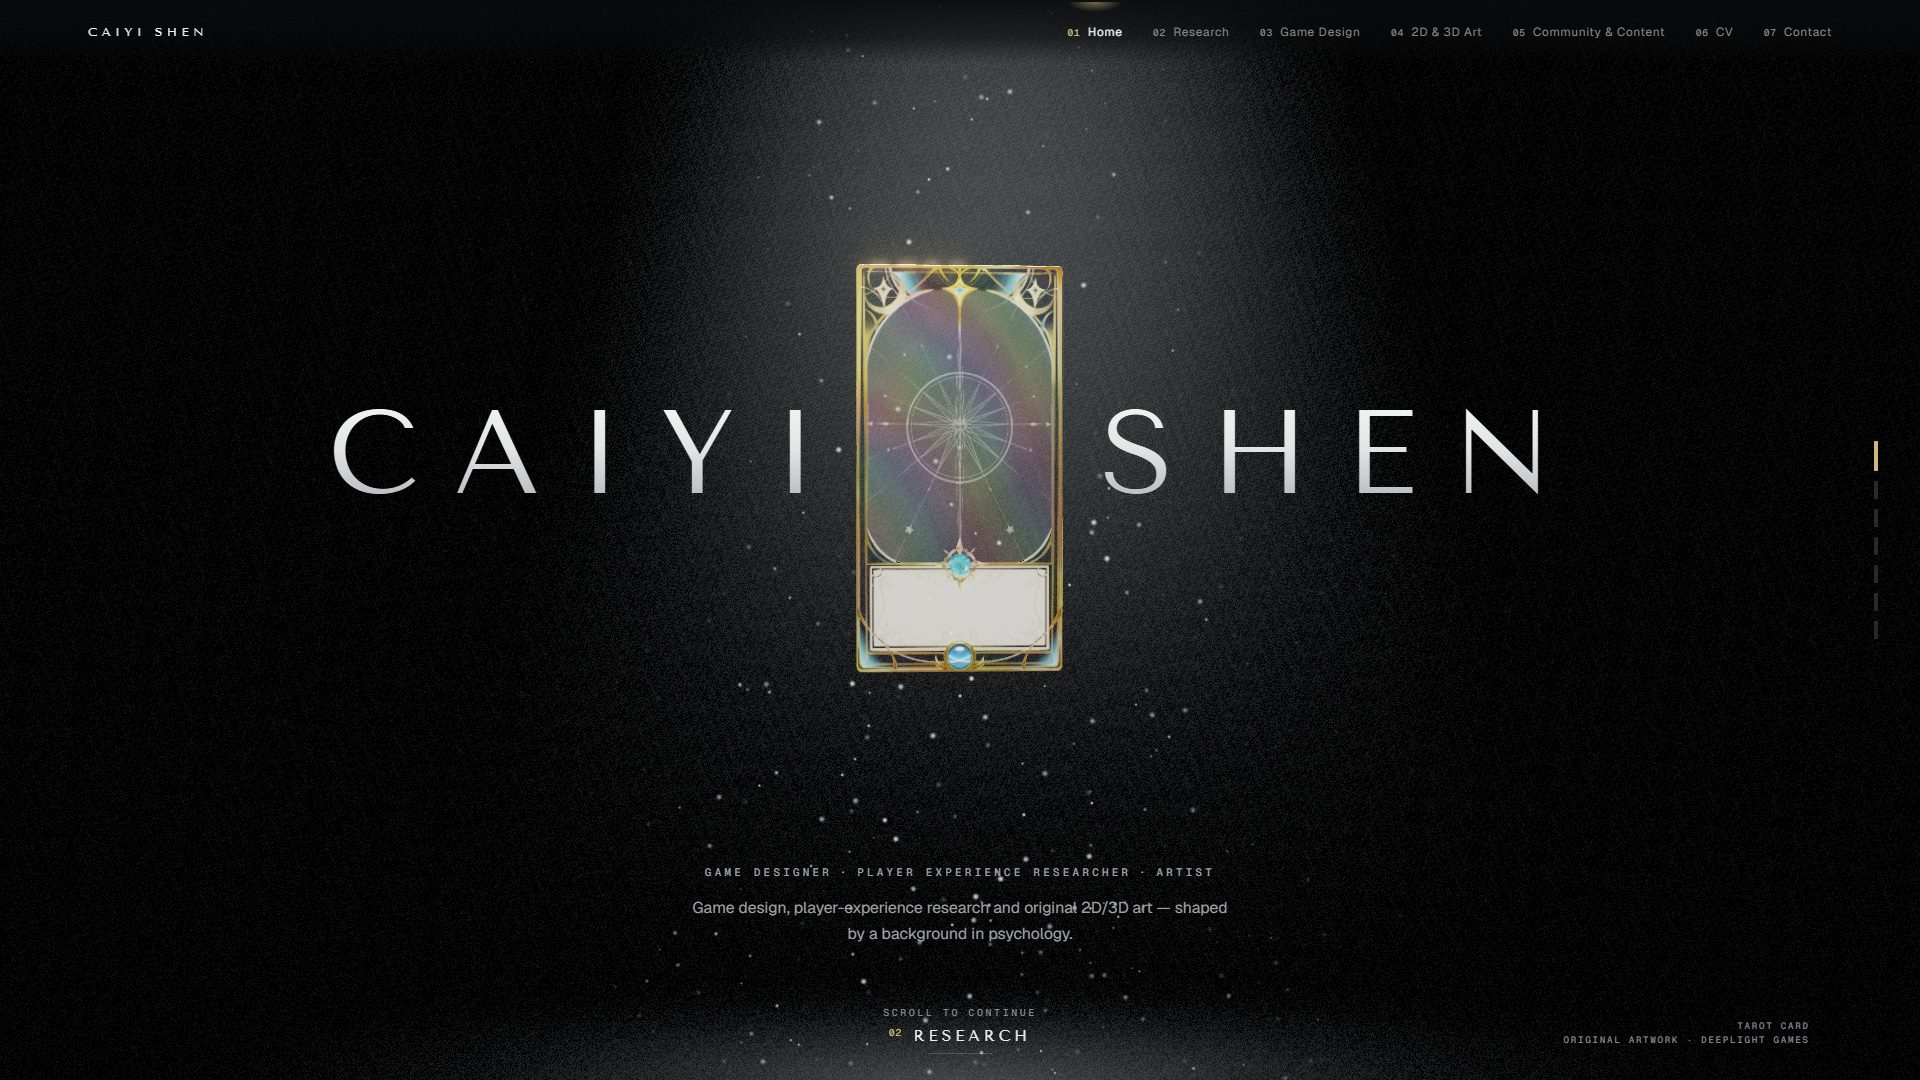
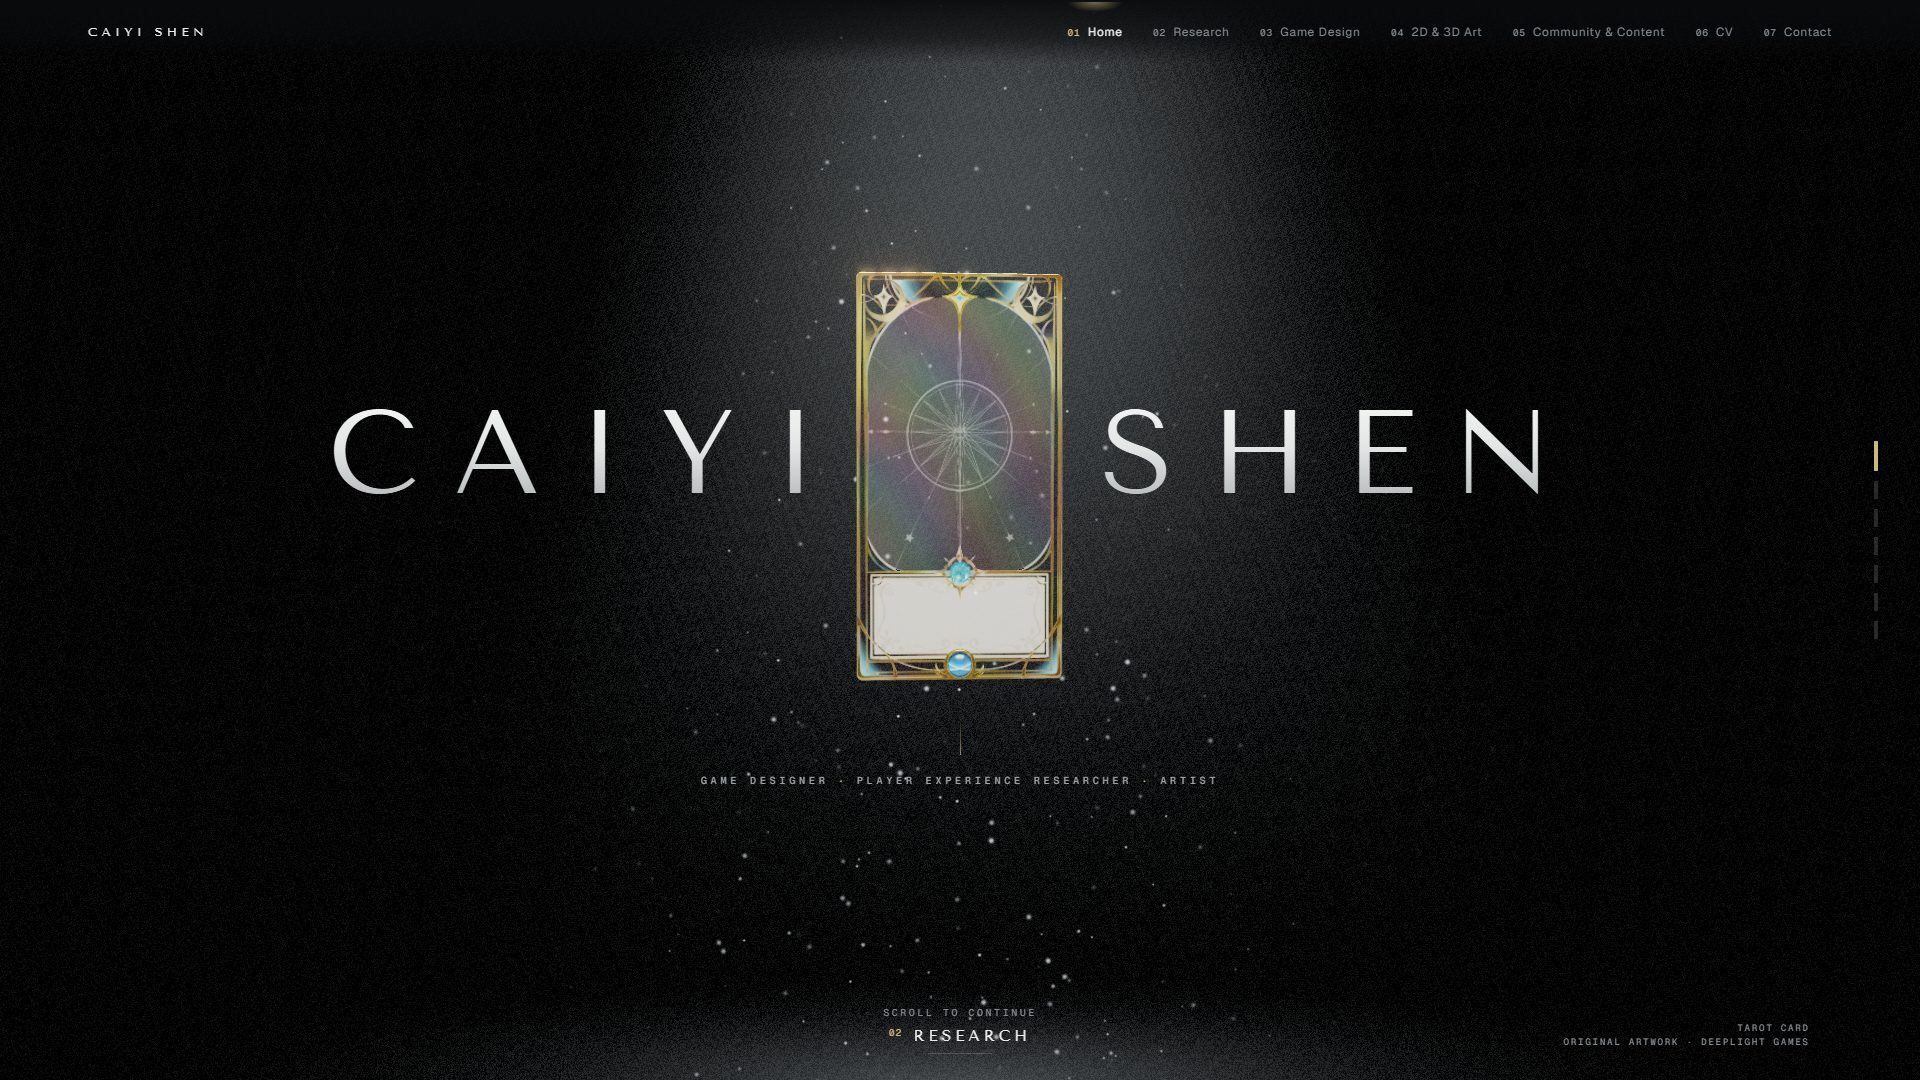
Cover: remove introduction sentence and rebalance title composition

diff --git a/preview/c2/css/c2.css b/preview/c2/css/c2.css
@@ -133,7 +133,6 @@ main#main { padding-top: var(--bar); }
 .cover-meta { position: absolute; left: 0; right: 0; bottom: clamp(5.4rem, 13vh, 8.4rem); display: grid; justify-items: center; gap: .9rem; text-align: center; padding: 0 var(--gutter); }
 .cover-role { margin: 0; font: 500 .68rem/1.6 var(--font-mono); letter-spacing: .3em; text-transform: uppercase; color: var(--ink-soft); }
 .cover-role i { font-style: normal; color: var(--accent); margin: 0 .7em; }
-.cover-intro { margin: 0; max-width: 34rem; font: 400 .98rem/1.6 var(--font-sans); color: var(--ink-muted); }
 .cover-credit { position: absolute; right: calc(var(--gutter) + 1.4rem); bottom: 2rem; font: 500 .58rem/1.5 var(--font-mono); letter-spacing: .18em; text-transform: uppercase; color: var(--ink-faint); text-decoration: none; text-align: right; }
 .cover-credit:hover { color: var(--ink); }
 .cover .c2-next { position: absolute; left: 50%; bottom: 1.6rem; translate: -50% 0; }
@@ -144,7 +143,6 @@ main#main { padding-top: var(--bar); }
   .cover-name .w2 { left: 0; width: 100%; text-align: center; }
   .cover .scene-poster { top: 32%; height: 34%; }
   .cover-credit { display: none; }
-  .cover-intro { font-size: .9rem; }
 }
 
 /* Opening choreography for the name: lit from above as the spotlight comes
@@ -200,3 +198,20 @@ main#main { padding-top: var(--bar); }
 }
 @keyframes c2-name-p { 0% { opacity: 0; --m: -30%; --ls: .5em; } 18% { opacity: 1; } 100% { opacity: 1; --m: 100%; --ls: .22em; } }
 @media (prefers-reduced-motion: reduce) and (max-aspect-ratio: 1/1) { .js-anim .cover-name .w { --ls: .22em; } }
+
+/* Cover, without an introduction: the roles become the name's caption and sit
+   directly beneath the card, so name, card and roles read as one centred
+   title block; the only other element is the chapter cue at the foot. */
+.cover-meta { top: 66.5%; bottom: auto; gap: 0; }
+.cover-role { font-size: .64rem; letter-spacing: .36em; color: var(--ink-muted); }
+.cover-role i { margin: 0 .9em; }
+.cover-meta::before { content: ''; display: block; width: 1px; height: clamp(1.4rem, 3.4vh, 2.4rem); margin: 0 auto 1.1rem; background: linear-gradient(180deg, rgba(205,182,127,0), rgba(205,182,127,.7)); }
+.cover-credit { bottom: 1.9rem; }
+@media (max-aspect-ratio: 1/1), (max-width: 760px) {
+  .cover-meta { top: calc(55% + clamp(3.6rem, 9vw, 6.4rem)); bottom: auto; }
+  .cover-meta::before { height: 1.4rem; margin-bottom: .9rem; }
+  .cover-role { font-size: .6rem; letter-spacing: .3em; line-height: 2; }
+}
+@media (max-width: 520px) {
+  .cover-role { max-width: 22rem; }
+}

diff --git a/prototypes/src/c2/c2.css b/prototypes/src/c2/c2.css
@@ -133,7 +133,6 @@ main#main { padding-top: var(--bar); }
 .cover-meta { position: absolute; left: 0; right: 0; bottom: clamp(5.4rem, 13vh, 8.4rem); display: grid; justify-items: center; gap: .9rem; text-align: center; padding: 0 var(--gutter); }
 .cover-role { margin: 0; font: 500 .68rem/1.6 var(--font-mono); letter-spacing: .3em; text-transform: uppercase; color: var(--ink-soft); }
 .cover-role i { font-style: normal; color: var(--accent); margin: 0 .7em; }
-.cover-intro { margin: 0; max-width: 34rem; font: 400 .98rem/1.6 var(--font-sans); color: var(--ink-muted); }
 .cover-credit { position: absolute; right: calc(var(--gutter) + 1.4rem); bottom: 2rem; font: 500 .58rem/1.5 var(--font-mono); letter-spacing: .18em; text-transform: uppercase; color: var(--ink-faint); text-decoration: none; text-align: right; }
 .cover-credit:hover { color: var(--ink); }
 .cover .c2-next { position: absolute; left: 50%; bottom: 1.6rem; translate: -50% 0; }
@@ -144,7 +143,6 @@ main#main { padding-top: var(--bar); }
   .cover-name .w2 { left: 0; width: 100%; text-align: center; }
   .cover .scene-poster { top: 32%; height: 34%; }
   .cover-credit { display: none; }
-  .cover-intro { font-size: .9rem; }
 }
 
 /* Opening choreography for the name: lit from above as the spotlight comes
@@ -200,3 +198,20 @@ main#main { padding-top: var(--bar); }
 }
 @keyframes c2-name-p { 0% { opacity: 0; --m: -30%; --ls: .5em; } 18% { opacity: 1; } 100% { opacity: 1; --m: 100%; --ls: .22em; } }
 @media (prefers-reduced-motion: reduce) and (max-aspect-ratio: 1/1) { .js-anim .cover-name .w { --ls: .22em; } }
+
+/* Cover, without an introduction: the roles become the name's caption and sit
+   directly beneath the card, so name, card and roles read as one centred
+   title block; the only other element is the chapter cue at the foot. */
+.cover-meta { top: 66.5%; bottom: auto; gap: 0; }
+.cover-role { font-size: .64rem; letter-spacing: .36em; color: var(--ink-muted); }
+.cover-role i { margin: 0 .9em; }
+.cover-meta::before { content: ''; display: block; width: 1px; height: clamp(1.4rem, 3.4vh, 2.4rem); margin: 0 auto 1.1rem; background: linear-gradient(180deg, rgba(205,182,127,0), rgba(205,182,127,.7)); }
+.cover-credit { bottom: 1.9rem; }
+@media (max-aspect-ratio: 1/1), (max-width: 760px) {
+  .cover-meta { top: calc(55% + clamp(3.6rem, 9vw, 6.4rem)); bottom: auto; }
+  .cover-meta::before { height: 1.4rem; margin-bottom: .9rem; }
+  .cover-role { font-size: .6rem; letter-spacing: .3em; line-height: 2; }
+}
+@media (max-width: 520px) {
+  .cover-role { max-width: 22rem; }
+}

diff --git a/preview/c2/index.html b/preview/c2/index.html
@@ -36,7 +36,6 @@
   <h1 class="cover-name"><span class="w w1">Caiyi</span> <span class="w w2">Shen</span></h1>
   <div class="cover-meta">
     <p class="cover-role">Game Designer<i>·</i>Player Experience Researcher<i>·</i>Artist</p>
-    <p class="cover-intro">Game design, player-experience research and original 2D/3D art — shaped by a background in psychology.</p>
   </div>
   <a class="cover-credit" href="projects/generate-deeplight-games.html#tarot-card">Tarot card<br>original artwork · Deeplight Games</a>
   <a class="c2-next" data-next-chapter href="research.html"><span class="nl">Scroll to continue</span><span class="nt"><b>02</b>Research</span><span class="np"><i></i></span></a>

diff --git a/docs/portfolio-redesign/DEVLOG.md b/docs/portfolio-redesign/DEVLOG.md
@@ -56,3 +56,9 @@ Feedback: keep C's tarot rendering, lighting, camera and opening; reject C's typ
 - **Mobile cover:** "SHEN" was pushed off-screen by a later desktop rule; the 820 px portrait tablet crowded "CAIYI" against the card. Both fixed with the portrait stacked layout.
 
 **Open questions for the artist:** keep or remove the GDC jam venue line; whether pages that still use main's light-ground artwork plates should keep them (they do now, to avoid altering artwork presentation).
+
+## Cover revision — introduction removed
+- Removed the sentence "Game design, player-experience research and original 2D/3D art — shaped by a background in psychology." from the cover entirely, without a replacement.
+- Rebalanced the composition. The roles line now sits directly beneath the card as the name's caption, joined by a short gilt hairline, so name, card and roles read as one centred title block. Below it is deliberate negative space, then the chapter cue alone at the foot.
+- **Portrait screens:** the roles follow the single-line name; they wrap only on phones.
+- **Checks:** parity re-run (137 media, 0 regressions); chapter tests all pass; cover renders clean at 1920, 1440, 820 and 390.
